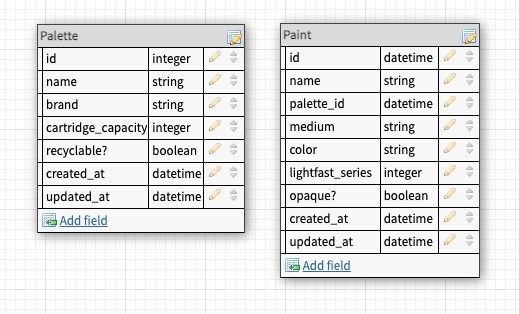
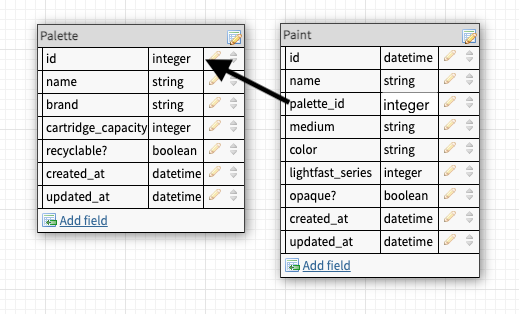
Add changes to schema photo

Changed region(s): [[0.4008, 0.172, 0.5549, 0.3439], [0.7399, 0.2866, 0.8324, 0.3726]]

diff --git a/README.md b/README.md
@@ -1,6 +1,6 @@
 # README
 
-Schema:
+## Schema:
 
 <img src="schema_image/schema_image.png"
      alt="Schema"
